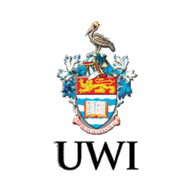
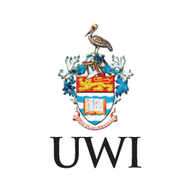
Use the cleaner UWI crest image in the header
Claude-Session: https://claude.ai/code/session_01NVQMAWfXTMAUMLjDLBWbRe

Changed region(s): [[0.25, 0.0938, 0.75, 0.9062]]

diff --git a/dip-ed-portfolio/evidence.html b/dip-ed-portfolio/evidence.html
@@ -10,8 +10,8 @@
 <meta property="og:title" content="All Evidence | Post Graduate Diploma in Education Portfolio">
 <meta property="og:description" content="Searchable collection of all portfolio documents and files.">
 <meta name="theme-color" content="#0f6b63">
-<link rel="icon" href="assets/favicon.png?v=202610250110" type="image/png">
-<link rel="stylesheet" href="css/styles.css?v=202610250110">
+<link rel="icon" href="assets/favicon.png?v=202610250114" type="image/png">
+<link rel="stylesheet" href="css/styles.css?v=202610250114">
 <script>try{var t=localStorage.getItem("theme");if(t)document.documentElement.dataset.theme=t;var z=+localStorage.getItem("textLevel")||0;if(z)document.documentElement.style.fontSize=(100+z*10)+"%"}catch(e){}</script>
 
 </head>
@@ -20,7 +20,7 @@
 <div id="progress" aria-hidden="true"></div>
 <header class="site-header">
   <div class="wrap bar">
-    <a class="logo" href="index.html"><img class="logo-photo" src="assets/photos/avatar.jpg" alt="" width="56" height="56"><span class="logo-text"><span class="logo-name">Beena Seepersad Vishnu</span><span class="logo-sub">Post Graduate Diploma in Education</span></span><img class="logo-uwi" src="assets/photos/uwi.png" alt="University of the West Indies crest" width="56" height="56"></a>
+    <a class="logo" href="index.html"><img class="logo-photo" src="assets/photos/avatar.jpg?v=202610250114" alt="" width="56" height="56"><span class="logo-text"><span class="logo-name">Beena Seepersad Vishnu</span><span class="logo-sub">Post Graduate Diploma in Education</span></span><img class="logo-uwi" src="assets/photos/uwi.png?v=202610250114" alt="University of the West Indies crest" width="56" height="56"></a>
     <button class="icon-btn menu-btn" id="menuBtn" aria-expanded="false" aria-controls="nav" aria-label="Toggle menu">☰</button>
     <nav class="nav" id="nav" aria-label="Main">
       <a href="index.html">Home</a>
@@ -37,7 +37,7 @@
 <main id="main" tabindex="-1"><div class="wrap"><div class="page-head"><nav class="crumbs" aria-label="Breadcrumb"><a href="index.html">Home</a> / <a href="table-of-contents.html">Contents</a> / <span aria-current="page">All Evidence</span></nav><h1>All Evidence</h1><p class="lead">Every document, photograph and file, listed under the part of the portfolio it belongs to.</p></div><section class="block" aria-label="Documents and files"><div class="tools"><label class="sr" for="q">Search this part</label><input class="search" id="q" type="search" placeholder="Search by title or tag"><div id="chips" role="group" aria-label="Filter by category" style="display:flex;gap:8px;flex-wrap:wrap"></div></div><p class="sr" id="count" aria-live="polite"></p><div class="grid" id="gallery"></div></section></div></main>
 <dialog id="detail" aria-label="Item details"><div class="dlg"><button class="icon-btn dlg-close" id="detailClose" type="button" aria-label="Close">✕</button><div id="detailBody"></div></div></dialog>
 <footer><div class="wrap foot"><div><strong>Beena Seepersad Vishnu</strong><br>Post Graduate Diploma in Education portfolio · © <span data-year></span><br>Faculty of Humanities and Education, University of the West Indies</div><div class="foot-links"><a href="table-of-contents.html">Contents</a> <a href="#main">Back to top ↑</a></div><p class="privacy">Privacy: this site has no accounts, cookies or analytics. Your theme and text size choices are stored only in your own browser. The one YouTube video loads only if you press Play.</p></div></footer>
-<script src="js/data.js?v=202610250110"></script>
-<script src="js/main.js?v=202610250110"></script>
+<script src="js/data.js?v=202610250114"></script>
+<script src="js/main.js?v=202610250114"></script>
 </body>
 </html>

diff --git a/dip-ed-portfolio/index.html b/dip-ed-portfolio/index.html
@@ -10,8 +10,8 @@
 <meta property="og:title" content="Home | Post Graduate Diploma in Education Portfolio">
 <meta property="og:description" content="Post Graduate Diploma in Education portfolio of Beena Seepersad Vishnu: introduction, planning, technology integration, assessment, transformations and reflection.">
 <meta name="theme-color" content="#0f6b63">
-<link rel="icon" href="assets/favicon.png?v=202610250110" type="image/png">
-<link rel="stylesheet" href="css/styles.css?v=202610250110">
+<link rel="icon" href="assets/favicon.png?v=202610250114" type="image/png">
+<link rel="stylesheet" href="css/styles.css?v=202610250114">
 <script>try{var t=localStorage.getItem("theme");if(t)document.documentElement.dataset.theme=t;var z=+localStorage.getItem("textLevel")||0;if(z)document.documentElement.style.fontSize=(100+z*10)+"%"}catch(e){}</script>
 <script type="application/ld+json">{"@context":"https://schema.org","@type":"WebSite","name":"Post Graduate Diploma in Education Portfolio – Beena Seepersad Vishnu","url":"https://beenavishnu7-afk.github.io/DipEd/"}</script>
 </head>
@@ -20,7 +20,7 @@
 <div id="progress" aria-hidden="true"></div>
 <header class="site-header">
   <div class="wrap bar">
-    <a class="logo" href="index.html"><img class="logo-photo" src="assets/photos/avatar.jpg" alt="" width="56" height="56"><span class="logo-text"><span class="logo-name">Beena Seepersad Vishnu</span><span class="logo-sub">Post Graduate Diploma in Education</span></span><img class="logo-uwi" src="assets/photos/uwi.png" alt="University of the West Indies crest" width="56" height="56"></a>
+    <a class="logo" href="index.html"><img class="logo-photo" src="assets/photos/avatar.jpg?v=202610250114" alt="" width="56" height="56"><span class="logo-text"><span class="logo-name">Beena Seepersad Vishnu</span><span class="logo-sub">Post Graduate Diploma in Education</span></span><img class="logo-uwi" src="assets/photos/uwi.png?v=202610250114" alt="University of the West Indies crest" width="56" height="56"></a>
     <button class="icon-btn menu-btn" id="menuBtn" aria-expanded="false" aria-controls="nav" aria-label="Toggle menu">☰</button>
     <nav class="nav" id="nav" aria-label="Main">
       <a href="index.html" aria-current="page">Home</a>
@@ -51,7 +51,7 @@
 <div class="dash" aria-label="Portfolio at a glance"><div class="stat-row" id="stats"></div></div></div></section></main>
 <dialog id="detail" aria-label="Item details"><div class="dlg"><button class="icon-btn dlg-close" id="detailClose" type="button" aria-label="Close">✕</button><div id="detailBody"></div></div></dialog>
 <footer><div class="wrap foot"><div><strong>Beena Seepersad Vishnu</strong><br>Post Graduate Diploma in Education portfolio · © <span data-year></span><br>Faculty of Humanities and Education, University of the West Indies</div><div class="foot-links"><a href="table-of-contents.html">Contents</a> <a href="#main">Back to top ↑</a></div><p class="privacy">Privacy: this site has no accounts, cookies or analytics. Your theme and text size choices are stored only in your own browser. The one YouTube video loads only if you press Play.</p></div></footer>
-<script src="js/data.js?v=202610250110"></script>
-<script src="js/main.js?v=202610250110"></script>
+<script src="js/data.js?v=202610250114"></script>
+<script src="js/main.js?v=202610250114"></script>
 </body>
 </html>

diff --git a/dip-ed-portfolio/technology-integration.html b/dip-ed-portfolio/technology-integration.html
@@ -10,8 +10,8 @@
 <meta property="og:title" content="C - Technology Integration | Post Graduate Diploma in Education Portfolio">
 <meta property="og:description" content="Integrating technology into teaching: an Output Devices lesson with its planning sheet, slides, starter video and classroom photographs.">
 <meta name="theme-color" content="#0f6b63">
-<link rel="icon" href="assets/favicon.png?v=202610250110" type="image/png">
-<link rel="stylesheet" href="css/styles.css?v=202610250110">
+<link rel="icon" href="assets/favicon.png?v=202610250114" type="image/png">
+<link rel="stylesheet" href="css/styles.css?v=202610250114">
 <script>try{var t=localStorage.getItem("theme");if(t)document.documentElement.dataset.theme=t;var z=+localStorage.getItem("textLevel")||0;if(z)document.documentElement.style.fontSize=(100+z*10)+"%"}catch(e){}</script>
 
 </head>
@@ -20,7 +20,7 @@
 <div id="progress" aria-hidden="true"></div>
 <header class="site-header">
   <div class="wrap bar">
-    <a class="logo" href="index.html"><img class="logo-photo" src="assets/photos/avatar.jpg" alt="" width="56" height="56"><span class="logo-text"><span class="logo-name">Beena Seepersad Vishnu</span><span class="logo-sub">Post Graduate Diploma in Education</span></span><img class="logo-uwi" src="assets/photos/uwi.png" alt="University of the West Indies crest" width="56" height="56"></a>
+    <a class="logo" href="index.html"><img class="logo-photo" src="assets/photos/avatar.jpg?v=202610250114" alt="" width="56" height="56"><span class="logo-text"><span class="logo-name">Beena Seepersad Vishnu</span><span class="logo-sub">Post Graduate Diploma in Education</span></span><img class="logo-uwi" src="assets/photos/uwi.png?v=202610250114" alt="University of the West Indies crest" width="56" height="56"></a>
     <button class="icon-btn menu-btn" id="menuBtn" aria-expanded="false" aria-controls="nav" aria-label="Toggle menu">☰</button>
     <nav class="nav" id="nav" aria-label="Main">
       <a href="index.html">Home</a>
@@ -219,7 +219,7 @@ Plan a 30–45 second advertisement that convinces your customer to choose your 
 <nav class="pager" aria-label="Part navigation"><a href="unit-and-lesson-planning.html">← B - Unit and Lesson Planning</a><a href="growth-in-assessment.html">D - Growth in Assessment Component →</a></nav></main></div>
 <dialog id="detail" aria-label="Item details"><div class="dlg"><button class="icon-btn dlg-close" id="detailClose" type="button" aria-label="Close">✕</button><div id="detailBody"></div></div></dialog>
 <footer><div class="wrap foot"><div><strong>Beena Seepersad Vishnu</strong><br>Post Graduate Diploma in Education portfolio · © <span data-year></span><br>Faculty of Humanities and Education, University of the West Indies</div><div class="foot-links"><a href="table-of-contents.html">Contents</a> <a href="#main">Back to top ↑</a></div><p class="privacy">Privacy: this site has no accounts, cookies or analytics. Your theme and text size choices are stored only in your own browser. The one YouTube video loads only if you press Play.</p></div></footer>
-<script src="js/data.js?v=202610250110"></script>
-<script src="js/main.js?v=202610250110"></script>
+<script src="js/data.js?v=202610250114"></script>
+<script src="js/main.js?v=202610250114"></script>
 </body>
 </html>

diff --git a/dip-ed-portfolio/404.html b/dip-ed-portfolio/404.html
@@ -10,8 +10,8 @@
 <meta property="og:title" content="Page not found | Post Graduate Diploma in Education Portfolio">
 <meta property="og:description" content="The page you were looking for could not be found.">
 <meta name="theme-color" content="#0f6b63">
-<link rel="icon" href="assets/favicon.png?v=202610250110" type="image/png">
-<link rel="stylesheet" href="css/styles.css?v=202610250110">
+<link rel="icon" href="assets/favicon.png?v=202610250114" type="image/png">
+<link rel="stylesheet" href="css/styles.css?v=202610250114">
 <script>try{var t=localStorage.getItem("theme");if(t)document.documentElement.dataset.theme=t;var z=+localStorage.getItem("textLevel")||0;if(z)document.documentElement.style.fontSize=(100+z*10)+"%"}catch(e){}</script>
 
 </head>
@@ -20,7 +20,7 @@
 <div id="progress" aria-hidden="true"></div>
 <header class="site-header">
   <div class="wrap bar">
-    <a class="logo" href="index.html"><img class="logo-photo" src="assets/photos/avatar.jpg" alt="" width="56" height="56"><span class="logo-text"><span class="logo-name">Beena Seepersad Vishnu</span><span class="logo-sub">Post Graduate Diploma in Education</span></span><img class="logo-uwi" src="assets/photos/uwi.png" alt="University of the West Indies crest" width="56" height="56"></a>
+    <a class="logo" href="index.html"><img class="logo-photo" src="assets/photos/avatar.jpg?v=202610250114" alt="" width="56" height="56"><span class="logo-text"><span class="logo-name">Beena Seepersad Vishnu</span><span class="logo-sub">Post Graduate Diploma in Education</span></span><img class="logo-uwi" src="assets/photos/uwi.png?v=202610250114" alt="University of the West Indies crest" width="56" height="56"></a>
     <button class="icon-btn menu-btn" id="menuBtn" aria-expanded="false" aria-controls="nav" aria-label="Toggle menu">☰</button>
     <nav class="nav" id="nav" aria-label="Main">
       <a href="index.html">Home</a>
@@ -37,7 +37,7 @@
 <main id="main" tabindex="-1"><div class="wrap"><div class="page-head"><h1>Page not found</h1><p class="lead">That page does not exist or has moved. Try one of these instead.</p><div class="actions"><a class="btn" href="index.html">Go home</a><a class="btn ghost" href="table-of-contents.html">Browse contents</a></div></div></div></main>
 <dialog id="detail" aria-label="Item details"><div class="dlg"><button class="icon-btn dlg-close" id="detailClose" type="button" aria-label="Close">✕</button><div id="detailBody"></div></div></dialog>
 <footer><div class="wrap foot"><div><strong>Beena Seepersad Vishnu</strong><br>Post Graduate Diploma in Education portfolio · © <span data-year></span><br>Faculty of Humanities and Education, University of the West Indies</div><div class="foot-links"><a href="table-of-contents.html">Contents</a> <a href="#main">Back to top ↑</a></div><p class="privacy">Privacy: this site has no accounts, cookies or analytics. Your theme and text size choices are stored only in your own browser. The one YouTube video loads only if you press Play.</p></div></footer>
-<script src="js/data.js?v=202610250110"></script>
-<script src="js/main.js?v=202610250110"></script>
+<script src="js/data.js?v=202610250114"></script>
+<script src="js/main.js?v=202610250114"></script>
 </body>
 </html>

diff --git a/dip-ed-portfolio/transformations.html b/dip-ed-portfolio/transformations.html
@@ -10,8 +10,8 @@
 <meta property="og:title" content="E - Transformations | Post Graduate Diploma in Education Portfolio">
 <meta property="og:description" content="Curriculum integration and becoming a change agent, with the related lesson plan, audio recording, video and photograph.">
 <meta name="theme-color" content="#0f6b63">
-<link rel="icon" href="assets/favicon.png?v=202610250110" type="image/png">
-<link rel="stylesheet" href="css/styles.css?v=202610250110">
+<link rel="icon" href="assets/favicon.png?v=202610250114" type="image/png">
+<link rel="stylesheet" href="css/styles.css?v=202610250114">
 <script>try{var t=localStorage.getItem("theme");if(t)document.documentElement.dataset.theme=t;var z=+localStorage.getItem("textLevel")||0;if(z)document.documentElement.style.fontSize=(100+z*10)+"%"}catch(e){}</script>
 
 </head>
@@ -20,7 +20,7 @@
 <div id="progress" aria-hidden="true"></div>
 <header class="site-header">
   <div class="wrap bar">
-    <a class="logo" href="index.html"><img class="logo-photo" src="assets/photos/avatar.jpg" alt="" width="56" height="56"><span class="logo-text"><span class="logo-name">Beena Seepersad Vishnu</span><span class="logo-sub">Post Graduate Diploma in Education</span></span><img class="logo-uwi" src="assets/photos/uwi.png" alt="University of the West Indies crest" width="56" height="56"></a>
+    <a class="logo" href="index.html"><img class="logo-photo" src="assets/photos/avatar.jpg?v=202610250114" alt="" width="56" height="56"><span class="logo-text"><span class="logo-name">Beena Seepersad Vishnu</span><span class="logo-sub">Post Graduate Diploma in Education</span></span><img class="logo-uwi" src="assets/photos/uwi.png?v=202610250114" alt="University of the West Indies crest" width="56" height="56"></a>
     <button class="icon-btn menu-btn" id="menuBtn" aria-expanded="false" aria-controls="nav" aria-label="Toggle menu">☰</button>
     <nav class="nav" id="nav" aria-label="Main">
       <a href="index.html">Home</a>
@@ -241,7 +241,7 @@
 <nav class="pager" aria-label="Part navigation"><a href="growth-in-assessment.html">← D - Growth in Assessment Component</a><a href="reflective-summary.html">F - Reflective Summary →</a></nav></main></div>
 <dialog id="detail" aria-label="Item details"><div class="dlg"><button class="icon-btn dlg-close" id="detailClose" type="button" aria-label="Close">✕</button><div id="detailBody"></div></div></dialog>
 <footer><div class="wrap foot"><div><strong>Beena Seepersad Vishnu</strong><br>Post Graduate Diploma in Education portfolio · © <span data-year></span><br>Faculty of Humanities and Education, University of the West Indies</div><div class="foot-links"><a href="table-of-contents.html">Contents</a> <a href="#main">Back to top ↑</a></div><p class="privacy">Privacy: this site has no accounts, cookies or analytics. Your theme and text size choices are stored only in your own browser. The one YouTube video loads only if you press Play.</p></div></footer>
-<script src="js/data.js?v=202610250110"></script>
-<script src="js/main.js?v=202610250110"></script>
+<script src="js/data.js?v=202610250114"></script>
+<script src="js/main.js?v=202610250114"></script>
 </body>
 </html>

diff --git a/dip-ed-portfolio/introduction.html b/dip-ed-portfolio/introduction.html
@@ -10,8 +10,8 @@
 <meta property="og:title" content="A - Introduction | Post Graduate Diploma in Education Portfolio">
 <meta property="og:description" content="My purpose, my story and my initial teaching philosophy.">
 <meta name="theme-color" content="#0f6b63">
-<link rel="icon" href="assets/favicon.png?v=202610250110" type="image/png">
-<link rel="stylesheet" href="css/styles.css?v=202610250110">
+<link rel="icon" href="assets/favicon.png?v=202610250114" type="image/png">
+<link rel="stylesheet" href="css/styles.css?v=202610250114">
 <script>try{var t=localStorage.getItem("theme");if(t)document.documentElement.dataset.theme=t;var z=+localStorage.getItem("textLevel")||0;if(z)document.documentElement.style.fontSize=(100+z*10)+"%"}catch(e){}</script>
 
 </head>
@@ -20,7 +20,7 @@
 <div id="progress" aria-hidden="true"></div>
 <header class="site-header">
   <div class="wrap bar">
-    <a class="logo" href="index.html"><img class="logo-photo" src="assets/photos/avatar.jpg" alt="" width="56" height="56"><span class="logo-text"><span class="logo-name">Beena Seepersad Vishnu</span><span class="logo-sub">Post Graduate Diploma in Education</span></span><img class="logo-uwi" src="assets/photos/uwi.png" alt="University of the West Indies crest" width="56" height="56"></a>
+    <a class="logo" href="index.html"><img class="logo-photo" src="assets/photos/avatar.jpg?v=202610250114" alt="" width="56" height="56"><span class="logo-text"><span class="logo-name">Beena Seepersad Vishnu</span><span class="logo-sub">Post Graduate Diploma in Education</span></span><img class="logo-uwi" src="assets/photos/uwi.png?v=202610250114" alt="University of the West Indies crest" width="56" height="56"></a>
     <button class="icon-btn menu-btn" id="menuBtn" aria-expanded="false" aria-controls="nav" aria-label="Toggle menu">☰</button>
     <nav class="nav" id="nav" aria-label="Main">
       <a href="index.html">Home</a>
@@ -66,7 +66,7 @@
 <nav class="pager" aria-label="Part navigation"><a href="table-of-contents.html">← Contents</a><a href="unit-and-lesson-planning.html">B - Unit and Lesson Planning →</a></nav></main></div>
 <dialog id="detail" aria-label="Item details"><div class="dlg"><button class="icon-btn dlg-close" id="detailClose" type="button" aria-label="Close">✕</button><div id="detailBody"></div></div></dialog>
 <footer><div class="wrap foot"><div><strong>Beena Seepersad Vishnu</strong><br>Post Graduate Diploma in Education portfolio · © <span data-year></span><br>Faculty of Humanities and Education, University of the West Indies</div><div class="foot-links"><a href="table-of-contents.html">Contents</a> <a href="#main">Back to top ↑</a></div><p class="privacy">Privacy: this site has no accounts, cookies or analytics. Your theme and text size choices are stored only in your own browser. The one YouTube video loads only if you press Play.</p></div></footer>
-<script src="js/data.js?v=202610250110"></script>
-<script src="js/main.js?v=202610250110"></script>
+<script src="js/data.js?v=202610250114"></script>
+<script src="js/main.js?v=202610250114"></script>
 </body>
 </html>

diff --git a/dip-ed-portfolio/growth-in-assessment.html b/dip-ed-portfolio/growth-in-assessment.html
@@ -10,8 +10,8 @@
 <meta property="og:title" content="D - Growth in Assessment Component | Post Graduate Diploma in Education Portfolio">
 <meta property="og:description" content="Growth in assessment practice.">
 <meta name="theme-color" content="#0f6b63">
-<link rel="icon" href="assets/favicon.png?v=202610250110" type="image/png">
-<link rel="stylesheet" href="css/styles.css?v=202610250110">
+<link rel="icon" href="assets/favicon.png?v=202610250114" type="image/png">
+<link rel="stylesheet" href="css/styles.css?v=202610250114">
 <script>try{var t=localStorage.getItem("theme");if(t)document.documentElement.dataset.theme=t;var z=+localStorage.getItem("textLevel")||0;if(z)document.documentElement.style.fontSize=(100+z*10)+"%"}catch(e){}</script>
 
 </head>
@@ -20,7 +20,7 @@
 <div id="progress" aria-hidden="true"></div>
 <header class="site-header">
   <div class="wrap bar">
-    <a class="logo" href="index.html"><img class="logo-photo" src="assets/photos/avatar.jpg" alt="" width="56" height="56"><span class="logo-text"><span class="logo-name">Beena Seepersad Vishnu</span><span class="logo-sub">Post Graduate Diploma in Education</span></span><img class="logo-uwi" src="assets/photos/uwi.png" alt="University of the West Indies crest" width="56" height="56"></a>
+    <a class="logo" href="index.html"><img class="logo-photo" src="assets/photos/avatar.jpg?v=202610250114" alt="" width="56" height="56"><span class="logo-text"><span class="logo-name">Beena Seepersad Vishnu</span><span class="logo-sub">Post Graduate Diploma in Education</span></span><img class="logo-uwi" src="assets/photos/uwi.png?v=202610250114" alt="University of the West Indies crest" width="56" height="56"></a>
     <button class="icon-btn menu-btn" id="menuBtn" aria-expanded="false" aria-controls="nav" aria-label="Toggle menu">☰</button>
     <nav class="nav" id="nav" aria-label="Main">
       <a href="index.html">Home</a>
@@ -41,7 +41,7 @@
 <nav class="pager" aria-label="Part navigation"><a href="technology-integration.html">← C - Technology Integration</a><a href="transformations.html">E - Transformations →</a></nav></main></div>
 <dialog id="detail" aria-label="Item details"><div class="dlg"><button class="icon-btn dlg-close" id="detailClose" type="button" aria-label="Close">✕</button><div id="detailBody"></div></div></dialog>
 <footer><div class="wrap foot"><div><strong>Beena Seepersad Vishnu</strong><br>Post Graduate Diploma in Education portfolio · © <span data-year></span><br>Faculty of Humanities and Education, University of the West Indies</div><div class="foot-links"><a href="table-of-contents.html">Contents</a> <a href="#main">Back to top ↑</a></div><p class="privacy">Privacy: this site has no accounts, cookies or analytics. Your theme and text size choices are stored only in your own browser. The one YouTube video loads only if you press Play.</p></div></footer>
-<script src="js/data.js?v=202610250110"></script>
-<script src="js/main.js?v=202610250110"></script>
+<script src="js/data.js?v=202610250114"></script>
+<script src="js/main.js?v=202610250114"></script>
 </body>
 </html>

diff --git a/dip-ed-portfolio/reflective-summary.html b/dip-ed-portfolio/reflective-summary.html
@@ -10,8 +10,8 @@
 <meta property="og:title" content="F - Reflective Summary | Post Graduate Diploma in Education Portfolio">
 <meta property="og:description" content="A reflection on the Post Graduate Diploma in Education programme.">
 <meta name="theme-color" content="#0f6b63">
-<link rel="icon" href="assets/favicon.png?v=202610250110" type="image/png">
-<link rel="stylesheet" href="css/styles.css?v=202610250110">
+<link rel="icon" href="assets/favicon.png?v=202610250114" type="image/png">
+<link rel="stylesheet" href="css/styles.css?v=202610250114">
 <script>try{var t=localStorage.getItem("theme");if(t)document.documentElement.dataset.theme=t;var z=+localStorage.getItem("textLevel")||0;if(z)document.documentElement.style.fontSize=(100+z*10)+"%"}catch(e){}</script>
 
 </head>
@@ -20,7 +20,7 @@
 <div id="progress" aria-hidden="true"></div>
 <header class="site-header">
   <div class="wrap bar">
-    <a class="logo" href="index.html"><img class="logo-photo" src="assets/photos/avatar.jpg" alt="" width="56" height="56"><span class="logo-text"><span class="logo-name">Beena Seepersad Vishnu</span><span class="logo-sub">Post Graduate Diploma in Education</span></span><img class="logo-uwi" src="assets/photos/uwi.png" alt="University of the West Indies crest" width="56" height="56"></a>
+    <a class="logo" href="index.html"><img class="logo-photo" src="assets/photos/avatar.jpg?v=202610250114" alt="" width="56" height="56"><span class="logo-text"><span class="logo-name">Beena Seepersad Vishnu</span><span class="logo-sub">Post Graduate Diploma in Education</span></span><img class="logo-uwi" src="assets/photos/uwi.png?v=202610250114" alt="University of the West Indies crest" width="56" height="56"></a>
     <button class="icon-btn menu-btn" id="menuBtn" aria-expanded="false" aria-controls="nav" aria-label="Toggle menu">☰</button>
     <nav class="nav" id="nav" aria-label="Main">
       <a href="index.html">Home</a>
@@ -55,7 +55,7 @@
 <nav class="pager" aria-label="Part navigation"><a href="transformations.html">← E - Transformations</a><a href="table-of-contents.html">Contents →</a></nav></main></div>
 <dialog id="detail" aria-label="Item details"><div class="dlg"><button class="icon-btn dlg-close" id="detailClose" type="button" aria-label="Close">✕</button><div id="detailBody"></div></div></dialog>
 <footer><div class="wrap foot"><div><strong>Beena Seepersad Vishnu</strong><br>Post Graduate Diploma in Education portfolio · © <span data-year></span><br>Faculty of Humanities and Education, University of the West Indies</div><div class="foot-links"><a href="table-of-contents.html">Contents</a> <a href="#main">Back to top ↑</a></div><p class="privacy">Privacy: this site has no accounts, cookies or analytics. Your theme and text size choices are stored only in your own browser. The one YouTube video loads only if you press Play.</p></div></footer>
-<script src="js/data.js?v=202610250110"></script>
-<script src="js/main.js?v=202610250110"></script>
+<script src="js/data.js?v=202610250114"></script>
+<script src="js/main.js?v=202610250114"></script>
 </body>
 </html>

diff --git a/dip-ed-portfolio/unit-and-lesson-planning.html b/dip-ed-portfolio/unit-and-lesson-planning.html
@@ -10,8 +10,8 @@
 <meta property="og:title" content="B - Unit and Lesson Planning | Post Graduate Diploma in Education Portfolio">
 <meta property="og:description" content="Unit plans and lesson plans.">
 <meta name="theme-color" content="#0f6b63">
-<link rel="icon" href="assets/favicon.png?v=202610250110" type="image/png">
-<link rel="stylesheet" href="css/styles.css?v=202610250110">
+<link rel="icon" href="assets/favicon.png?v=202610250114" type="image/png">
+<link rel="stylesheet" href="css/styles.css?v=202610250114">
 <script>try{var t=localStorage.getItem("theme");if(t)document.documentElement.dataset.theme=t;var z=+localStorage.getItem("textLevel")||0;if(z)document.documentElement.style.fontSize=(100+z*10)+"%"}catch(e){}</script>
 
 </head>
@@ -20,7 +20,7 @@
 <div id="progress" aria-hidden="true"></div>
 <header class="site-header">
   <div class="wrap bar">
-    <a class="logo" href="index.html"><img class="logo-photo" src="assets/photos/avatar.jpg" alt="" width="56" height="56"><span class="logo-text"><span class="logo-name">Beena Seepersad Vishnu</span><span class="logo-sub">Post Graduate Diploma in Education</span></span><img class="logo-uwi" src="assets/photos/uwi.png" alt="University of the West Indies crest" width="56" height="56"></a>
+    <a class="logo" href="index.html"><img class="logo-photo" src="assets/photos/avatar.jpg?v=202610250114" alt="" width="56" height="56"><span class="logo-text"><span class="logo-name">Beena Seepersad Vishnu</span><span class="logo-sub">Post Graduate Diploma in Education</span></span><img class="logo-uwi" src="assets/photos/uwi.png?v=202610250114" alt="University of the West Indies crest" width="56" height="56"></a>
     <button class="icon-btn menu-btn" id="menuBtn" aria-expanded="false" aria-controls="nav" aria-label="Toggle menu">☰</button>
     <nav class="nav" id="nav" aria-label="Main">
       <a href="index.html">Home</a>
@@ -41,7 +41,7 @@
 <nav class="pager" aria-label="Part navigation"><a href="introduction.html">← A - Introduction</a><a href="technology-integration.html">C - Technology Integration →</a></nav></main></div>
 <dialog id="detail" aria-label="Item details"><div class="dlg"><button class="icon-btn dlg-close" id="detailClose" type="button" aria-label="Close">✕</button><div id="detailBody"></div></div></dialog>
 <footer><div class="wrap foot"><div><strong>Beena Seepersad Vishnu</strong><br>Post Graduate Diploma in Education portfolio · © <span data-year></span><br>Faculty of Humanities and Education, University of the West Indies</div><div class="foot-links"><a href="table-of-contents.html">Contents</a> <a href="#main">Back to top ↑</a></div><p class="privacy">Privacy: this site has no accounts, cookies or analytics. Your theme and text size choices are stored only in your own browser. The one YouTube video loads only if you press Play.</p></div></footer>
-<script src="js/data.js?v=202610250110"></script>
-<script src="js/main.js?v=202610250110"></script>
+<script src="js/data.js?v=202610250114"></script>
+<script src="js/main.js?v=202610250114"></script>
 </body>
 </html>

diff --git a/dip-ed-portfolio/table-of-contents.html b/dip-ed-portfolio/table-of-contents.html
@@ -10,8 +10,8 @@
 <meta property="og:title" content="Contents | Post Graduate Diploma in Education Portfolio">
 <meta property="og:description" content="Table of contents for the portfolio.">
 <meta name="theme-color" content="#0f6b63">
-<link rel="icon" href="assets/favicon.png?v=202610250110" type="image/png">
-<link rel="stylesheet" href="css/styles.css?v=202610250110">
+<link rel="icon" href="assets/favicon.png?v=202610250114" type="image/png">
+<link rel="stylesheet" href="css/styles.css?v=202610250114">
 <script>try{var t=localStorage.getItem("theme");if(t)document.documentElement.dataset.theme=t;var z=+localStorage.getItem("textLevel")||0;if(z)document.documentElement.style.fontSize=(100+z*10)+"%"}catch(e){}</script>
 
 </head>
@@ -20,7 +20,7 @@
 <div id="progress" aria-hidden="true"></div>
 <header class="site-header">
   <div class="wrap bar">
-    <a class="logo" href="index.html"><img class="logo-photo" src="assets/photos/avatar.jpg" alt="" width="56" height="56"><span class="logo-text"><span class="logo-name">Beena Seepersad Vishnu</span><span class="logo-sub">Post Graduate Diploma in Education</span></span><img class="logo-uwi" src="assets/photos/uwi.png" alt="University of the West Indies crest" width="56" height="56"></a>
+    <a class="logo" href="index.html"><img class="logo-photo" src="assets/photos/avatar.jpg?v=202610250114" alt="" width="56" height="56"><span class="logo-text"><span class="logo-name">Beena Seepersad Vishnu</span><span class="logo-sub">Post Graduate Diploma in Education</span></span><img class="logo-uwi" src="assets/photos/uwi.png?v=202610250114" alt="University of the West Indies crest" width="56" height="56"></a>
     <button class="icon-btn menu-btn" id="menuBtn" aria-expanded="false" aria-controls="nav" aria-label="Toggle menu">☰</button>
     <nav class="nav" id="nav" aria-label="Main">
       <a href="index.html">Home</a>
@@ -40,7 +40,7 @@
 <div id="tocResults" class="grid"></div></div></main>
 <dialog id="detail" aria-label="Item details"><div class="dlg"><button class="icon-btn dlg-close" id="detailClose" type="button" aria-label="Close">✕</button><div id="detailBody"></div></div></dialog>
 <footer><div class="wrap foot"><div><strong>Beena Seepersad Vishnu</strong><br>Post Graduate Diploma in Education portfolio · © <span data-year></span><br>Faculty of Humanities and Education, University of the West Indies</div><div class="foot-links"><a href="table-of-contents.html">Contents</a> <a href="#main">Back to top ↑</a></div><p class="privacy">Privacy: this site has no accounts, cookies or analytics. Your theme and text size choices are stored only in your own browser. The one YouTube video loads only if you press Play.</p></div></footer>
-<script src="js/data.js?v=202610250110"></script>
-<script src="js/main.js?v=202610250110"></script>
+<script src="js/data.js?v=202610250114"></script>
+<script src="js/main.js?v=202610250114"></script>
 </body>
 </html>
